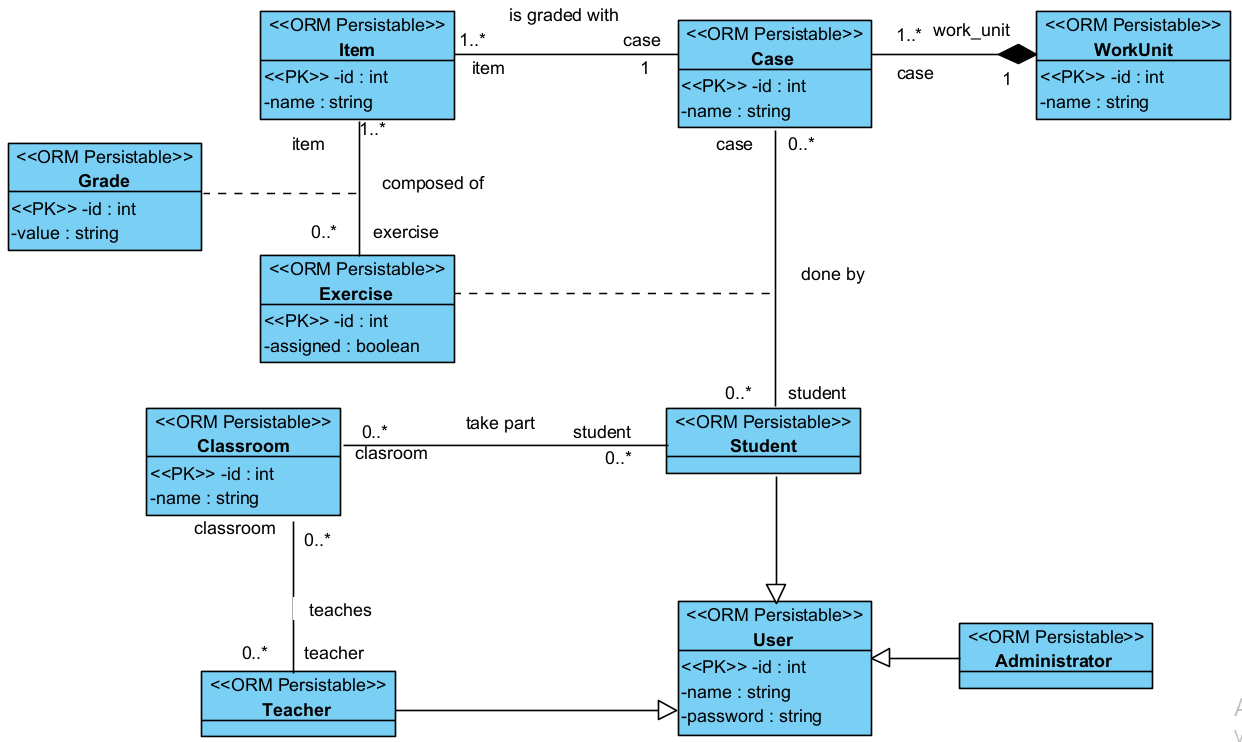
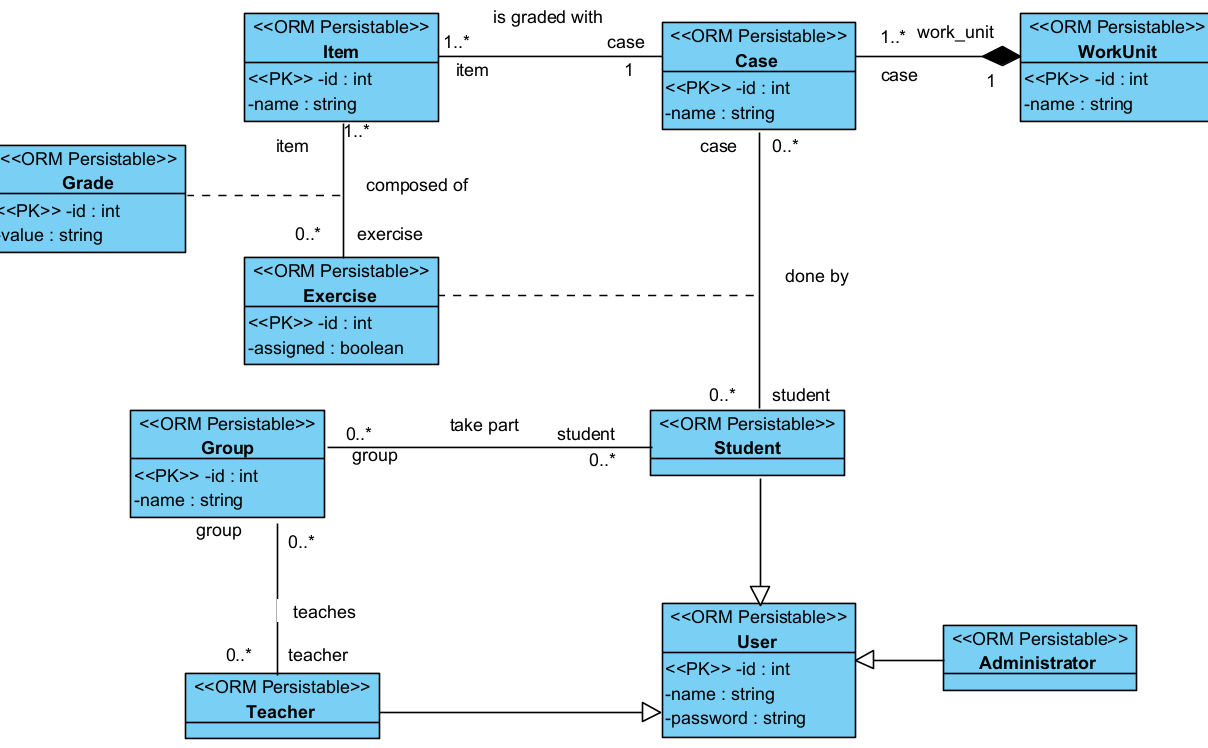
Readme changed

diff --git a/README.md b/README.md
@@ -1,4 +1,4 @@
-# ActiviApp
+# MetaHospitalFP
 
 <a name="readme-top"></a>
 
@@ -65,7 +65,7 @@ Once we have that diagram ready, we can start creating the backend.
 In this diagram we can identify all the necessary tables to create the databases.
 
 Notice that we have a table that has several records, among them is the role ("Discriminator"), this
-role will be the one that will identify if the user is a student, a teacher, or an administrator.
+role will be the one that will identify if the user is a student, a teacher, a director or an administrator.
 
 Finally, it is not necessary to add the guest because it can't modify the data in the database
 
